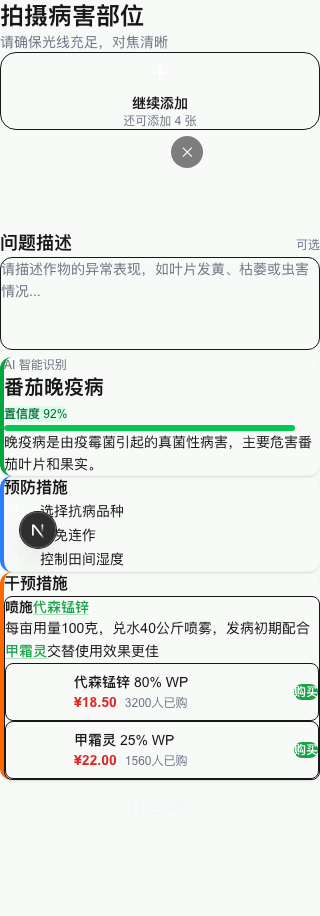
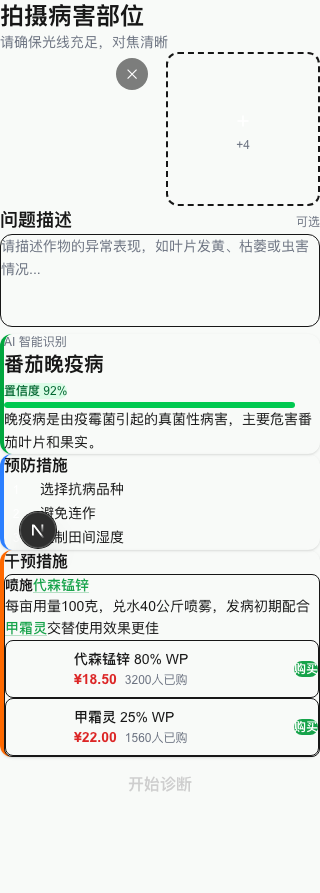
fix: 上传区域交互优化 — 统一虚线风格 + 单图放大 + 按钮可见性
- ImageUpload: 选图后"继续添加"改为同尺寸虚线瓦片(+N)，与图片并排
- ImageUpload: 1-2 张图占 50% 宽度，3+ 张占 33%，不再缩太小
- page.tsx: 禁用按钮加深背景色(surface-container-highest)+边框+深色文字
- 修复相关单元测试和 E2E 测试

diff --git a/src/frontend/components/ImageUpload.tsx b/src/frontend/components/ImageUpload.tsx
@@ -137,10 +137,16 @@ export default function ImageUpload({ onImagesChange }: ImageUploadProps) {
   const hasImages = items.length > 0;
   const canAddMore = items.length < MAX_IMAGES;
 
+  // 1-2 items: 50% width each; 3+: 33% width (3 columns)
+  const colCount = items.length <= 2 ? 2 : 3;
+  const itemWidth = colCount === 2
+    ? "calc((100% - 0.75rem) / 2)"
+    : "calc((100% - 1.5rem) / 3)";
+
   return (
     <div className="w-full">
-      {/* Upload zone — shown when no images or can still add more */}
-      {(!hasImages || canAddMore) && (
+      {/* Empty state — large dashed upload zone */}
+      {!hasImages && (
         <div
           onDrop={handleDrop}
           onDragOver={handleDragOver}
@@ -150,62 +156,46 @@ export default function ImageUpload({ onImagesChange }: ImageUploadProps) {
             relative flex flex-col items-center justify-center
             w-full rounded-2xl cursor-pointer
             transition-all duration-200
-            ${hasImages ? "py-6" : "aspect-[4/3]"}
-            ${hasImages
-              ? `border border-[var(--color-outline-variant)]/30 ${
-                  isDragOver
-                    ? "bg-[var(--color-surface-container-high)] border-[var(--color-primary)]/40"
-                    : "bg-[var(--color-surface-container)] hover:border-[var(--color-primary)]/30"
-                }`
-              : `border-2 border-dashed ${
-                  isDragOver
-                    ? "border-[var(--color-primary)] bg-[var(--color-primary)]/5"
-                    : "border-[var(--color-outline-variant)]/50 bg-[var(--color-surface-container)] hover:border-[var(--color-primary)]/40 hover:bg-[var(--color-primary)]/3"
-                }`
+            aspect-[4/3]
+            border-2 border-dashed
+            ${isDragOver
+              ? "border-[var(--color-primary)] bg-[var(--color-primary)]/5"
+              : "border-[var(--color-outline-variant)]/50 bg-[var(--color-surface-container)] hover:border-[var(--color-primary)]/40 hover:bg-[var(--color-primary)]/3"
             }
           `}
         >
-          {!hasImages && <CornerBrackets active={isDragOver} />}
+          <CornerBrackets active={isDragOver} />
 
-          {/* Icon */}
           <div
             className={`
-              ${hasImages ? "w-10 h-10 mb-2" : "w-16 h-16 mb-4"} rounded-full flex items-center justify-center
+              w-16 h-16 mb-4 rounded-full flex items-center justify-center
               transition-colors duration-200
               ${isDragOver ? "bg-[var(--color-primary)]" : "bg-[var(--color-primary-container)]"}
             `}
           >
-            {hasImages ? (
-              <svg className="w-5 h-5 text-white" fill="none" stroke="currentColor" strokeWidth={2} viewBox="0 0 24 24">
-                <path strokeLinecap="round" strokeLinejoin="round" d="M12 4.5v15m7.5-7.5h-15" />
-              </svg>
-            ) : (
-              <svg className="w-7 h-7 text-white" fill="none" stroke="currentColor" strokeWidth={1.5} viewBox="0 0 24 24">
-                <path strokeLinecap="round" strokeLinejoin="round" d="M6.827 6.175A2.31 2.31 0 0 1 5.186 7.23c-.38.054-.757.112-1.134.175C2.999 7.58 2.25 8.507 2.25 9.574V18a2.25 2.25 0 0 0 2.25 2.25h15A2.25 2.25 0 0 0 21.75 18V9.574c0-1.067-.75-1.994-1.802-2.169a47.865 47.865 0 0 0-1.134-.175 2.31 2.31 0 0 1-1.64-1.055l-.822-1.316a2.192 2.192 0 0 0-1.736-1.039 48.774 48.774 0 0 0-5.232 0 2.192 2.192 0 0 0-1.736 1.039l-.821 1.316Z" />
-                <path strokeLinecap="round" strokeLinejoin="round" d="M16.5 12.75a4.5 4.5 0 1 1-9 0 4.5 4.5 0 0 1 9 0Z" />
-              </svg>
-            )}
+            <svg className="w-7 h-7 text-white" fill="none" stroke="currentColor" strokeWidth={1.5} viewBox="0 0 24 24">
+              <path strokeLinecap="round" strokeLinejoin="round" d="M6.827 6.175A2.31 2.31 0 0 1 5.186 7.23c-.38.054-.757.112-1.134.175C2.999 7.58 2.25 8.507 2.25 9.574V18a2.25 2.25 0 0 0 2.25 2.25h15A2.25 2.25 0 0 0 21.75 18V9.574c0-1.067-.75-1.994-1.802-2.169a47.865 47.865 0 0 0-1.134-.175 2.31 2.31 0 0 1-1.64-1.055l-.822-1.316a2.192 2.192 0 0 0-1.736-1.039 48.774 48.774 0 0 0-5.232 0 2.192 2.192 0 0 0-1.736 1.039l-.821 1.316Z" />
+              <path strokeLinecap="round" strokeLinejoin="round" d="M16.5 12.75a4.5 4.5 0 1 1-9 0 4.5 4.5 0 0 1 9 0Z" />
+            </svg>
           </div>
 
           <p className="text-sm font-semibold text-[var(--color-on-surface)]">
-            {hasImages ? "继续添加" : "点击拍照或上传"}
+            点击拍照或上传
           </p>
           <p className="text-xs text-[var(--color-text-muted)] mt-1">
-            {hasImages
-              ? `还可添加 ${MAX_IMAGES - items.length} 张`
-              : `支持 JPG、PNG、WebP，最大 ${MAX_SIZE_MB}MB，最多 ${MAX_IMAGES} 张`}
+            {`支持 JPG、PNG、WebP，最大 ${MAX_SIZE_MB}MB，最多 ${MAX_IMAGES} 张`}
           </p>
         </div>
       )}
 
-      {/* Image previews grid */}
+      {/* Image previews grid — show images first, then "add more" tile */}
       {hasImages && (
-        <div className="flex flex-wrap justify-center gap-3 mt-3" data-testid="image-previews">
+        <div className="flex flex-wrap justify-center gap-3" data-testid="image-previews">
           {items.map((item, idx) => (
             <div
               key={`${item.file.name}-${item.preview}`}
               className="relative rounded-xl overflow-hidden bg-[var(--color-surface-container-low)] aspect-square"
-              style={{ width: "calc((100% - 1.5rem) / 3)" }}
+              style={{ width: itemWidth }}
             >
               <img
                 src={item.preview}
@@ -230,6 +220,35 @@ export default function ImageUpload({ onImagesChange }: ImageUploadProps) {
               </button>
             </div>
           ))}
+
+          {/* Add more tile — same size as image tiles, dashed border */}
+          {canAddMore && (
+            <div
+              onClick={() => inputRef.current?.click()}
+              onDrop={handleDrop}
+              onDragOver={handleDragOver}
+              onDragLeave={handleDragLeave}
+              className={`
+                flex flex-col items-center justify-center
+                rounded-xl cursor-pointer aspect-square
+                border-2 border-dashed transition-all duration-200
+                ${isDragOver
+                  ? "border-[var(--color-primary)] bg-[var(--color-primary)]/5"
+                  : "border-[var(--color-outline-variant)]/40 bg-[var(--color-surface-container)] hover:border-[var(--color-primary)]/40"
+                }
+              `}
+              style={{ width: itemWidth }}
+            >
+              <div className={`w-8 h-8 mb-1 rounded-full flex items-center justify-center ${isDragOver ? "bg-[var(--color-primary)]" : "bg-[var(--color-primary-container)]"}`}>
+                <svg className="w-4 h-4 text-white" fill="none" stroke="currentColor" strokeWidth={2.5} viewBox="0 0 24 24">
+                  <path strokeLinecap="round" strokeLinejoin="round" d="M12 4.5v15m7.5-7.5h-15" />
+                </svg>
+              </div>
+              <p className="text-xs text-[var(--color-text-muted)]">
+                +{MAX_IMAGES - items.length}
+              </p>
+            </div>
+          )}
         </div>
       )}
 

diff --git a/src/frontend/tests/feature-010.spec.ts b/src/frontend/tests/feature-010.spec.ts
@@ -92,6 +92,9 @@ test.describe("Feature #10 — UI 视觉优化", () => {
     await expect(grid).toHaveCSS("display", "flex");
     await expect(grid).toHaveCSS("justify-content", "center");
 
+    // At max 5, no "add more" tile should appear
+    await expect(grid.locator("div.border-dashed")).toHaveCount(0);
+
     // Delete buttons should be ≥32px (w-8 = 2rem = 32px)
     const deleteBtn = grid.locator('button[aria-label*="移除"]').first();
     const box = await deleteBtn.boundingBox();
@@ -101,6 +104,26 @@ test.describe("Feature #10 — UI 视觉优化", () => {
 
     await page.screenshot({
       path: "verification/feature-010-multi-grid.png",
+      fullPage: true,
+    });
+  });
+
+  test("单张图预览较大（50%宽度），继续添加保持虚线风格", async ({ page }) => {
+    await page.goto("/");
+
+    const fileInput = page.locator('input[type="file"]');
+    await fileInput.setInputFiles([makeTestImage("single.jpg")]);
+
+    const grid = page.locator('[data-testid="image-previews"]');
+    await expect(grid).toBeVisible();
+    await expect(grid.locator("img")).toHaveCount(1);
+
+    // "Add more" tile should be visible with dashed border
+    const addTile = grid.locator("div.border-dashed");
+    await expect(addTile).toBeVisible();
+
+    await page.screenshot({
+      path: "verification/feature-010-single-image.png",
       fullPage: true,
     });
   });

diff --git a/src/frontend/app/page.tsx b/src/frontend/app/page.tsx
@@ -130,16 +130,19 @@ export default function Home() {
           disabled={images.length === 0 || loading}
           className="
             w-full h-14 rounded-xl text-base font-semibold
-            text-white cursor-pointer
+            cursor-pointer
             transition-all duration-200
-            disabled:opacity-40 disabled:cursor-not-allowed
+            disabled:cursor-not-allowed
           "
           style={{
             background:
               images.length === 0 || loading
-                ? "var(--color-surface-container-high)"
+                ? "var(--color-surface-container-highest)"
                 : "linear-gradient(135deg, var(--color-primary), var(--color-primary-container))",
-            color: images.length === 0 || loading ? "var(--color-text-muted)" : "#fff",
+            color: images.length === 0 || loading ? "var(--color-on-surface-variant)" : "#fff",
+            border: images.length === 0 || loading
+              ? "1.5px solid var(--color-outline-variant)"
+              : "none",
           }}
         >
           {loading ? (

diff --git a/src/frontend/__tests__/ImageUpload.test.tsx b/src/frontend/__tests__/ImageUpload.test.tsx
@@ -143,8 +143,8 @@ describe("ImageUpload", () => {
     await userEvent.upload(getFileInput(), file1);
     expect(onImagesChange).toHaveBeenLastCalledWith([file1]);
 
-    // 还能看到"继续添加"
-    expect(within(container).getByText("继续添加")).toBeInTheDocument();
+    // "Add more" tile should be visible (shows "+N" count)
+    expect(within(container).getByText("+4")).toBeInTheDocument();
 
     const file2 = createFile("b.jpg", 1024, "image/jpeg");
     await userEvent.upload(getFileInput(), file2);
@@ -174,8 +174,8 @@ describe("ImageUpload", () => {
 
     expect(onImagesChange).toHaveBeenLastCalledWith(files);
 
-    // 已达上限，不应显示"继续添加"
-    expect(within(container).queryByText("继续添加")).not.toBeInTheDocument();
+    // At max, no "add more" tile should exist
+    expect(within(container).queryByText(/^\+\d+$/)).not.toBeInTheDocument();
   });
 
   it("shows error when trying to add beyond limit", async () => {

diff --git a/src/frontend/tests/feature-009.spec.ts b/src/frontend/tests/feature-009.spec.ts
@@ -37,8 +37,8 @@ test.describe("Feature #9 — 多图上传支持", () => {
     const previews = page.locator('[data-testid="image-previews"] img');
     await expect(previews).toHaveCount(3);
 
-    // Should show "继续添加" since < 5
-    await expect(page.locator('text=继续添加')).toBeVisible();
+    // Should show "add more" tile since < 5 (displays "+2")
+    await expect(page.locator('text=+2')).toBeVisible();
 
     // Submit button should be enabled
     await expect(page.locator('button:has-text("开始诊断")')).toBeEnabled();
